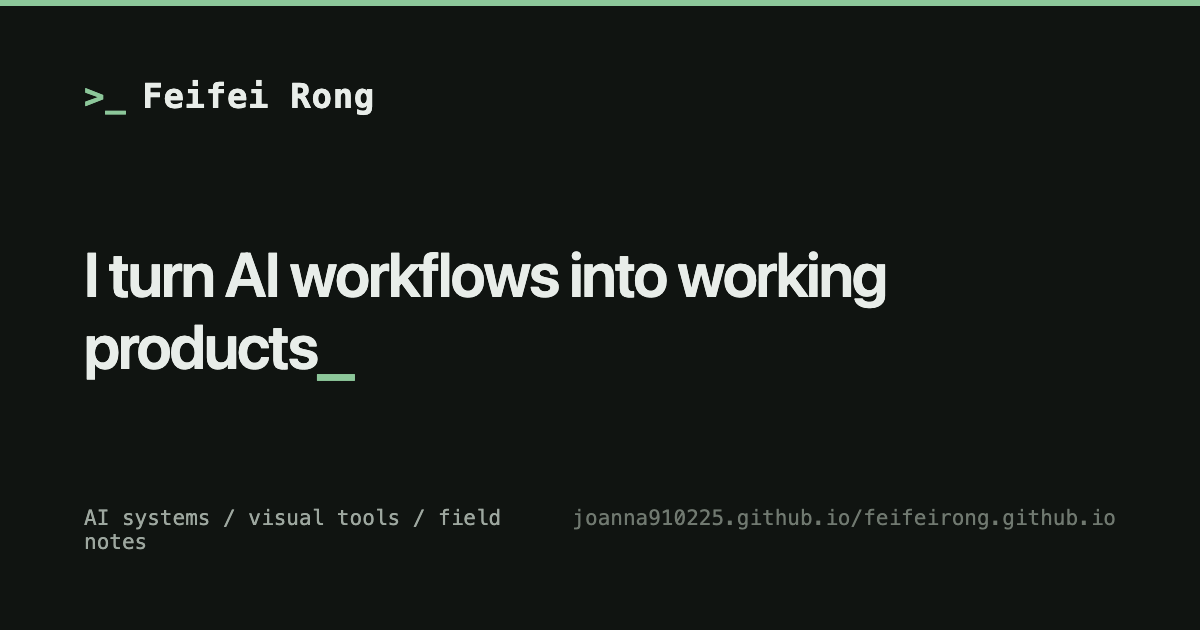
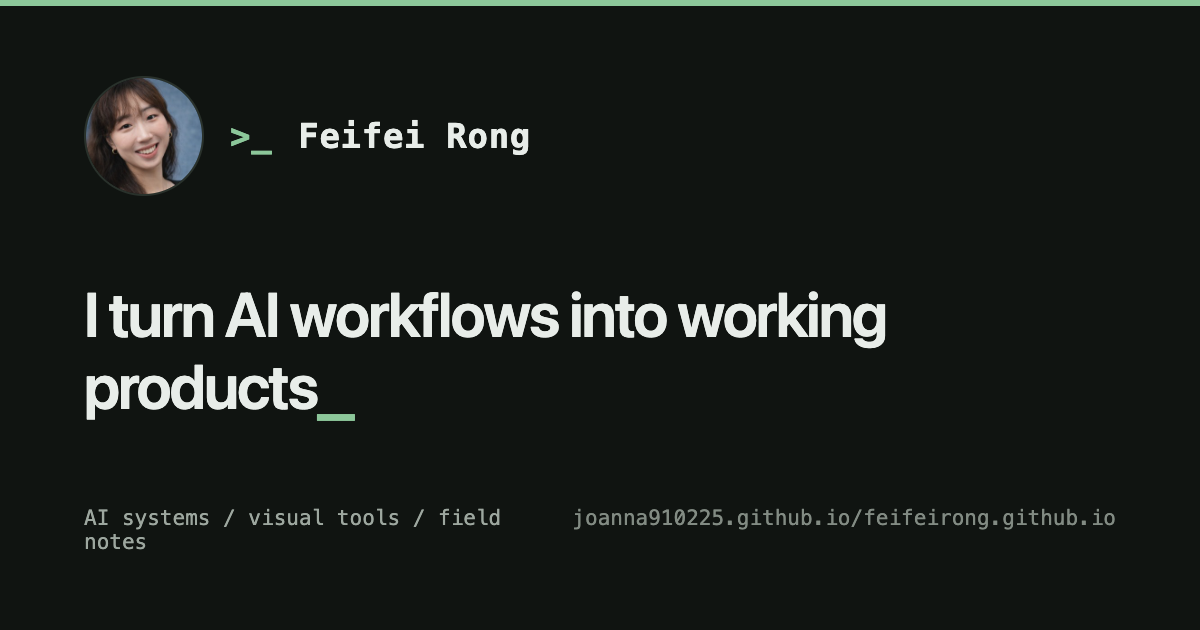
feat(about): add the portrait, and put it on the link preview card
Two placements, per the agreed plan. No header avatar.

About page (EN + ZH): the portrait sits at the top of the sticky
.resume-aside, above the name, where the page already introduces the
person. Native 2:3, no crop, so nothing is at risk of cutting the head.

Share card: og-cover.png now carries the face crop as a 120px circle
beside the wordmark, so a link shared into LinkedIn or WeChat shows a
person rather than a block of text.

Implementation notes:

- Uses astro:assets (<Picture>) rather than hand-compressed files in
  public/. sharp 0.34.5 is already installed, so the build emits
  AVIF/WebP/JPEG at 250/375/500w with hashed names. A 250px slot at DPR 2
  pulls 8.7 KB, down from the 2.03 MB source PNG. Width/height are written
  into the HTML, so measured CLS is 0.
- Source asset is 640x960 (142 KB), not the 1024x1536 original (331 KB):
  the slot is 250px, so anything above 500w for DPR 2 is waste. This keeps
  the deployed portrait variants at 365 KB instead of 689 KB, and the
  2.03 MB original stays in the vault.
- The photo needs a 1px border, not just for style. Its own backdrop is a
  dark blue-grey measuring 11.2:1 against the light theme (reads as a
  framed print) but only 1.6:1 against the dark theme, where without a
  border it is almost indistinguishable from --bg.
- alt="" : decorative, since the name sits immediately below it.
- The OG script embeds the avatar as a data URI because the page is built
[…]

Changed region(s): [[0.0617, 0.3921, 0.74, 0.6635], [0.0617, 0.1206, 0.4625, 0.3317]]

diff --git a/src/styles/site.css b/src/styles/site.css
@@ -31,3 +31,21 @@
 }
 
 .button.news:focus-visible { outline-color: var(--warm); }
+
+/* About: portrait at the top of the sticky aside.
+   The photo's own backdrop is a dark blue-grey that measures 11.2:1
+   against the light theme (a heavy dark block, so it reads as a framed
+   print) but only 1.6:1 against the dark theme, where without help it is
+   barely distinguishable from --bg. One hairline border settles both
+   cases, using the same token as the rest of the page rules.
+
+   max-width rather than width: the aside is ~320px on desktop and
+   full-width below 800px, where .resume-grid collapses to one column. */
+.about-portrait {
+  display: block;
+  width: 100%;
+  max-width: 250px;
+  height: auto;
+  margin-bottom: 26px;
+  border: 1px solid var(--line);
+}
